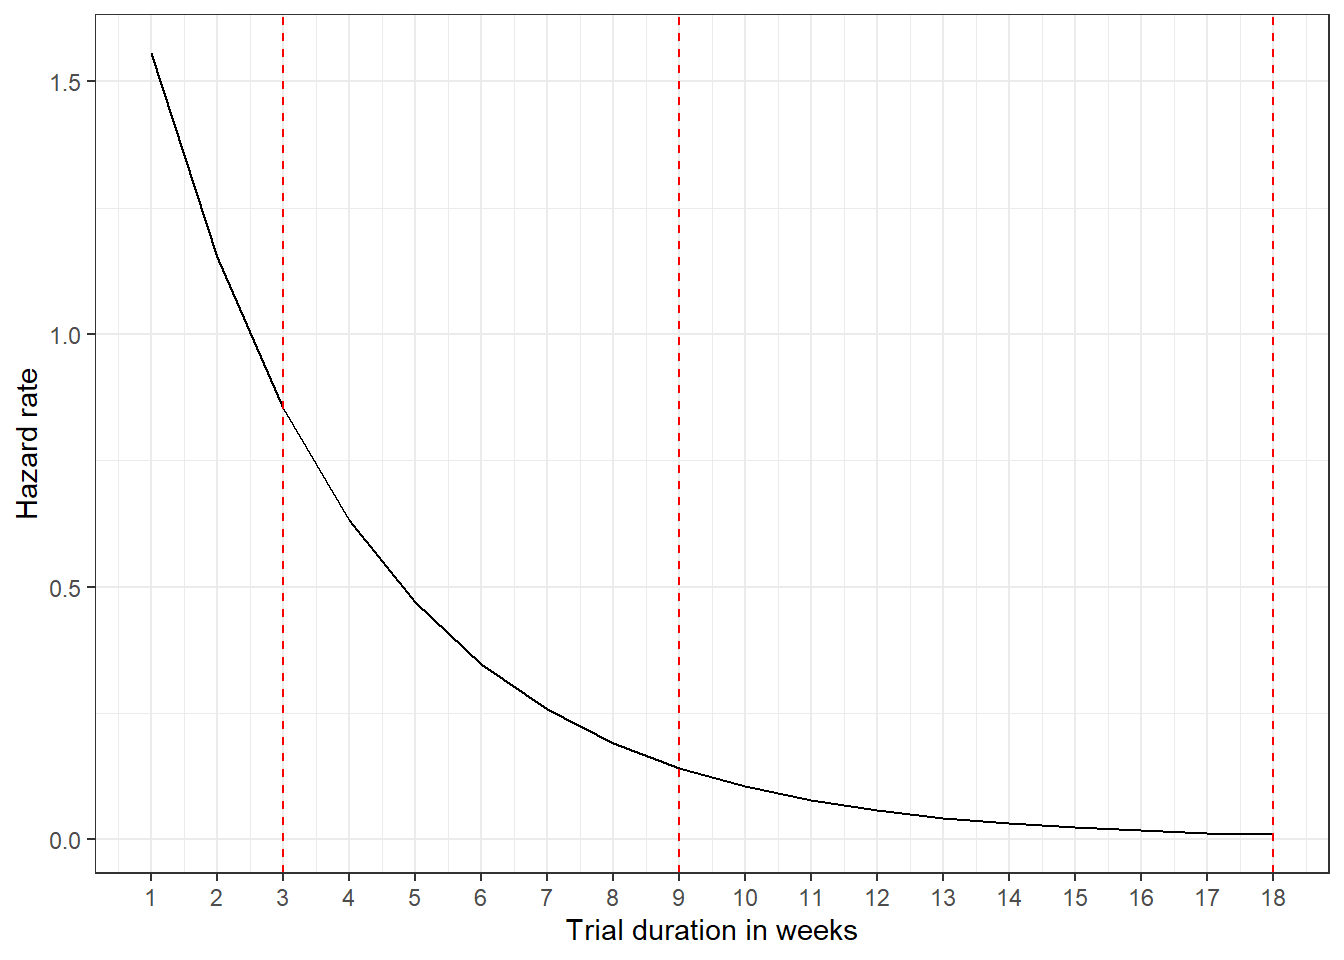
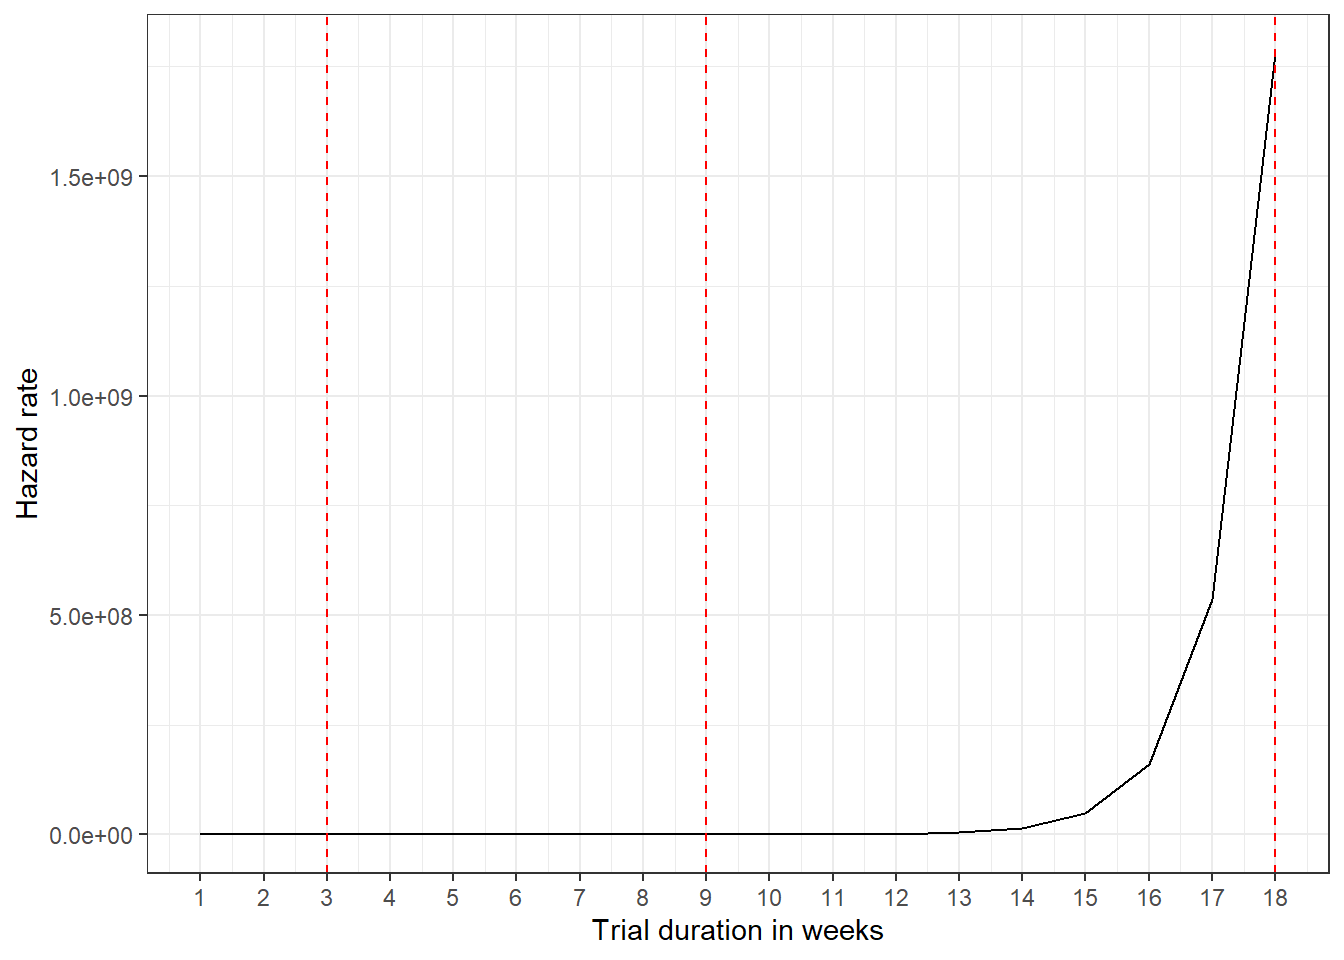
Conduct model protocol drafted.

diff --git a/quarto/conduct_model.html b/quarto/conduct_model.html
@@ -132,7 +132,7 @@ pre > code.sourceCode > span > a:first-child::before { text-decoration: underlin
 <tbody>
 <tr class="odd">
 <td style="text-align: right;">1</td>
-<td style="text-align: left;">SUBJ3418</td>
+<td style="text-align: left;">SUBJ2948</td>
 <td style="text-align: right;">1</td>
 <td style="text-align: right;">26</td>
 <td style="text-align: left;">Placebo</td>
@@ -142,7 +142,7 @@ pre > code.sourceCode > span > a:first-child::before { text-decoration: underlin
 </tr>
 <tr class="even">
 <td style="text-align: right;">1</td>
-<td style="text-align: left;">SUBJ5314</td>
+<td style="text-align: left;">SUBJ6336</td>
 <td style="text-align: right;">0</td>
 <td style="text-align: right;">3</td>
 <td style="text-align: left;">Active</td>
@@ -152,7 +152,7 @@ pre > code.sourceCode > span > a:first-child::before { text-decoration: underlin
 </tr>
 <tr class="odd">
 <td style="text-align: right;">1</td>
-<td style="text-align: left;">SUBJ3226</td>
+<td style="text-align: left;">SUBJ2600</td>
 <td style="text-align: right;">0</td>
 <td style="text-align: right;">21</td>
 <td style="text-align: left;">Active</td>
@@ -162,7 +162,7 @@ pre > code.sourceCode > span > a:first-child::before { text-decoration: underlin
 </tr>
 <tr class="even">
 <td style="text-align: right;">1</td>
-<td style="text-align: left;">SUBJ451</td>
+<td style="text-align: left;">SUBJ7307</td>
 <td style="text-align: right;">1</td>
 <td style="text-align: right;">26</td>
 <td style="text-align: left;">Placebo</td>
@@ -356,7 +356,7 @@ pre > code.sourceCode > span > a:first-child::before { text-decoration: underlin
 <thead>
 <tr class="header">
 <th style="text-align: right;">time</th>
-<th style="text-align: right;">a</th>
+<th style="text-align: right;">rate</th>
 <th style="text-align: right;">hr</th>
 <th style="text-align: right;">haz</th>
 </tr>
@@ -364,111 +364,111 @@ pre > code.sourceCode > span > a:first-child::before { text-decoration: underlin
 <tbody>
 <tr class="odd">
 <td style="text-align: right;">1</td>
-<td style="text-align: right;">-0.3</td>
-<td style="text-align: right;">2.1</td>
-<td style="text-align: right;">1.5557183</td>
+<td style="text-align: right;">0.7408182</td>
+<td style="text-align: right;">1.2</td>
+<td style="text-align: right;">2.459603e+00</td>
 </tr>
 <tr class="even">
 <td style="text-align: right;">2</td>
-<td style="text-align: right;">-0.3</td>
-<td style="text-align: right;">2.1</td>
-<td style="text-align: right;">1.1525044</td>
+<td style="text-align: right;">0.7408182</td>
+<td style="text-align: right;">1.2</td>
+<td style="text-align: right;">8.166170e+00</td>
 </tr>
 <tr class="odd">
 <td style="text-align: right;">3</td>
-<td style="text-align: right;">-0.3</td>
-<td style="text-align: right;">2.1</td>
-<td style="text-align: right;">0.8537963</td>
+<td style="text-align: right;">0.7408182</td>
+<td style="text-align: right;">1.2</td>
+<td style="text-align: right;">2.711264e+01</td>
 </tr>
 <tr class="even">
 <td style="text-align: right;">4</td>
-<td style="text-align: right;">-0.3</td>
-<td style="text-align: right;">2.1</td>
-<td style="text-align: right;">0.6325078</td>
+<td style="text-align: right;">0.7408182</td>
+<td style="text-align: right;">1.2</td>
+<td style="text-align: right;">9.001713e+01</td>
 </tr>
 <tr class="odd">
 <td style="text-align: right;">5</td>
-<td style="text-align: right;">-0.3</td>
-<td style="text-align: right;">2.1</td>
-<td style="text-align: right;">0.4685733</td>
+<td style="text-align: right;">0.7408182</td>
+<td style="text-align: right;">1.2</td>
+<td style="text-align: right;">2.988674e+02</td>
 </tr>
 <tr class="even">
 <td style="text-align: right;">6</td>
-<td style="text-align: right;">-0.3</td>
-<td style="text-align: right;">2.1</td>
-<td style="text-align: right;">0.3471277</td>
+<td style="text-align: right;">0.7408182</td>
+<td style="text-align: right;">1.2</td>
+<td style="text-align: right;">9.922747e+02</td>
 </tr>
 <tr class="odd">
 <td style="text-align: right;">7</td>
-<td style="text-align: right;">-0.3</td>
-<td style="text-align: right;">2.1</td>
-<td style="text-align: right;">0.2571585</td>
+<td style="text-align: right;">0.7408182</td>
+<td style="text-align: right;">1.2</td>
+<td style="text-align: right;">3.294468e+03</td>
 </tr>
 <tr class="even">
 <td style="text-align: right;">8</td>
-<td style="text-align: right;">-0.3</td>
-<td style="text-align: right;">2.1</td>
-<td style="text-align: right;">0.1905077</td>
+<td style="text-align: right;">0.7408182</td>
+<td style="text-align: right;">1.2</td>
+<td style="text-align: right;">1.093802e+04</td>
 </tr>
 <tr class="odd">
 <td style="text-align: right;">9</td>
-<td style="text-align: right;">-0.3</td>
-<td style="text-align: right;">2.1</td>
-<td style="text-align: right;">0.1411316</td>
+<td style="text-align: right;">0.7408182</td>
+<td style="text-align: right;">1.2</td>
+<td style="text-align: right;">3.631550e+04</td>
 </tr>
 <tr class="even">
 <td style="text-align: right;">10</td>
-<td style="text-align: right;">-0.3</td>
-<td style="text-align: right;">2.1</td>
-<td style="text-align: right;">0.1045528</td>
+<td style="text-align: right;">0.7408182</td>
+<td style="text-align: right;">1.2</td>
+<td style="text-align: right;">1.205717e+05</td>
 </tr>
 <tr class="odd">
 <td style="text-align: right;">11</td>
-<td style="text-align: right;">-0.3</td>
-<td style="text-align: right;">2.1</td>
-<td style="text-align: right;">0.0774547</td>
+<td style="text-align: right;">0.7408182</td>
+<td style="text-align: right;">1.2</td>
+<td style="text-align: right;">4.003122e+05</td>
 </tr>
 <tr class="even">
 <td style="text-align: right;">12</td>
-<td style="text-align: right;">-0.3</td>
-<td style="text-align: right;">2.1</td>
-<td style="text-align: right;">0.0573798</td>
+<td style="text-align: right;">0.7408182</td>
+<td style="text-align: right;">1.2</td>
+<td style="text-align: right;">1.329083e+06</td>
 </tr>
 <tr class="odd">
 <td style="text-align: right;">13</td>
-<td style="text-align: right;">-0.3</td>
-<td style="text-align: right;">2.1</td>
-<td style="text-align: right;">0.0425080</td>
+<td style="text-align: right;">0.7408182</td>
+<td style="text-align: right;">1.2</td>
+<td style="text-align: right;">4.412712e+06</td>
 </tr>
 <tr class="even">
 <td style="text-align: right;">14</td>
-<td style="text-align: right;">-0.3</td>
-<td style="text-align: right;">2.1</td>
-<td style="text-align: right;">0.0314907</td>
+<td style="text-align: right;">0.7408182</td>
+<td style="text-align: right;">1.2</td>
+<td style="text-align: right;">1.465072e+07</td>
 </tr>
 <tr class="odd">
 <td style="text-align: right;">15</td>
-<td style="text-align: right;">-0.3</td>
-<td style="text-align: right;">2.1</td>
-<td style="text-align: right;">0.0233289</td>
+<td style="text-align: right;">0.7408182</td>
+<td style="text-align: right;">1.2</td>
+<td style="text-align: right;">4.864210e+07</td>
 </tr>
 <tr class="even">
 <td style="text-align: right;">16</td>
-<td style="text-align: right;">-0.3</td>
-<td style="text-align: right;">2.1</td>
-<td style="text-align: right;">0.0172825</td>
+<td style="text-align: right;">0.7408182</td>
+<td style="text-align: right;">1.2</td>
+<td style="text-align: right;">1.614975e+08</td>
 </tr>
 <tr class="odd">
 <td style="text-align: right;">17</td>
-<td style="text-align: right;">-0.3</td>
-<td style="text-align: right;">2.1</td>
-<td style="text-align: right;">0.0128032</td>
+<td style="text-align: right;">0.7408182</td>
+<td style="text-align: right;">1.2</td>
+<td style="text-align: right;">5.361905e+08</td>
 </tr>
 <tr class="even">
 <td style="text-align: right;">18</td>
-<td style="text-align: right;">-0.3</td>
-<td style="text-align: right;">2.1</td>
-<td style="text-align: right;">0.0094848</td>
+<td style="text-align: right;">0.7408182</td>
+<td style="text-align: right;">1.2</td>
+<td style="text-align: right;">1.780215e+09</td>
 </tr>
 </tbody>
 </table>
@@ -484,6 +484,23 @@ pre > code.sourceCode > span > a:first-child::before { text-decoration: underlin
 </section>
 <section id="prediction-with-uncertainty" class="level2">
 <h2 class="anchored" data-anchor-id="prediction-with-uncertainty">Prediction with uncertainty</h2>
+<p>To gauge the uncertainty of predictions, we will sample posterior point estimates using Monte Carlo simulation. To do this, we will sample from a multivariate normal distribution using the coefficients and variance-covariance matrices obtained from the design-stage model posterior draws. We will draw samples using the <em>mvrnorm</em> package.</p>
+<section id="example-test-data" class="level3">
+<h3 class="anchored" data-anchor-id="example-test-data">Example (test data)</h3>
+<div class="sourceCode" id="cb4"><pre class="sourceCode r code-with-copy"><code class="sourceCode r"><span id="cb4-1"><a href="#cb4-1" aria-hidden="true" tabindex="-1"></a><span class="co"># Cox sampling</span></span>
+<span id="cb4-2"><a href="#cb4-2" aria-hidden="true" tabindex="-1"></a>n <span class="ot">&lt;-</span> <span class="dv">100</span></span>
+<span id="cb4-3"><a href="#cb4-3" aria-hidden="true" tabindex="-1"></a>samples_cox <span class="ot">&lt;-</span> <span class="fu">mvrnorm</span>(<span class="at">n =</span> n, <span class="at">mu =</span> <span class="fu">coef</span>(cox_mdl), <span class="at">sigma =</span> <span class="fu">vcov</span>(sigma))</span>
+<span id="cb4-4"><a href="#cb4-4" aria-hidden="true" tabindex="-1"></a>samples_cox <span class="ot">&lt;-</span> <span class="fu">exp</span>(samples_cox)</span>
+<span id="cb4-5"><a href="#cb4-5" aria-hidden="true" tabindex="-1"></a></span>
+<span id="cb4-6"><a href="#cb4-6" aria-hidden="true" tabindex="-1"></a><span class="co"># Gomp bayes sampling</span></span>
+<span id="cb4-7"><a href="#cb4-7" aria-hidden="true" tabindex="-1"></a>n <span class="ot">&lt;-</span> <span class="dv">100</span></span>
+<span id="cb4-8"><a href="#cb4-8" aria-hidden="true" tabindex="-1"></a>mu <span class="ot">&lt;-</span> <span class="fu">matrix</span>(<span class="fu">c</span>(<span class="fu">rnorm</span>(<span class="dv">100</span>, <span class="at">mean =</span> <span class="fl">0.221</span>, <span class="at">sd =</span> <span class="dv">1</span>), <span class="fu">rnorm</span>(<span class="dv">100</span>, <span class="at">mean =</span> <span class="sc">-</span><span class="fl">1.77</span>, <span class="at">sd =</span> <span class="dv">1</span>)), <span class="at">ncol =</span> <span class="dv">2</span>)</span>
+<span id="cb4-9"><a href="#cb4-9" aria-hidden="true" tabindex="-1"></a><span class="fu">colnames</span>(mu) <span class="ot">&lt;-</span> <span class="fu">c</span>(<span class="st">"rate"</span>, <span class="st">"shape"</span>)</span>
+<span id="cb4-10"><a href="#cb4-10" aria-hidden="true" tabindex="-1"></a>sigma <span class="ot">&lt;-</span> <span class="fu">matrix</span>(<span class="fu">c</span>(<span class="fl">0.0289</span>, <span class="sc">-</span><span class="fl">0.0004</span>, <span class="sc">-</span><span class="fl">0.0004</span>, <span class="fl">0.0561</span>), <span class="at">ncol =</span> <span class="dv">2</span>)</span>
+<span id="cb4-11"><a href="#cb4-11" aria-hidden="true" tabindex="-1"></a><span class="fu">colnames</span>(sigma) <span class="ot">&lt;-</span> <span class="fu">c</span>(<span class="st">"shape"</span>, <span class="st">"rate"</span>)</span>
+<span id="cb4-12"><a href="#cb4-12" aria-hidden="true" tabindex="-1"></a><span class="fu">rownames</span>(sigma) <span class="ot">&lt;-</span> <span class="fu">c</span>(<span class="st">"shape"</span>, <span class="st">"rate"</span>)</span>
+<span id="cb4-13"><a href="#cb4-13" aria-hidden="true" tabindex="-1"></a>samples <span class="ot">&lt;-</span> <span class="fu">mvrnorm</span>(<span class="at">n =</span> n, <span class="at">mu =</span> mu, <span class="at">sigma =</span> sigma)</span></code><button title="Copy to Clipboard" class="code-copy-button"><i class="bi"></i></button></pre></div>
+</section>
 </section>
 
 </main>
